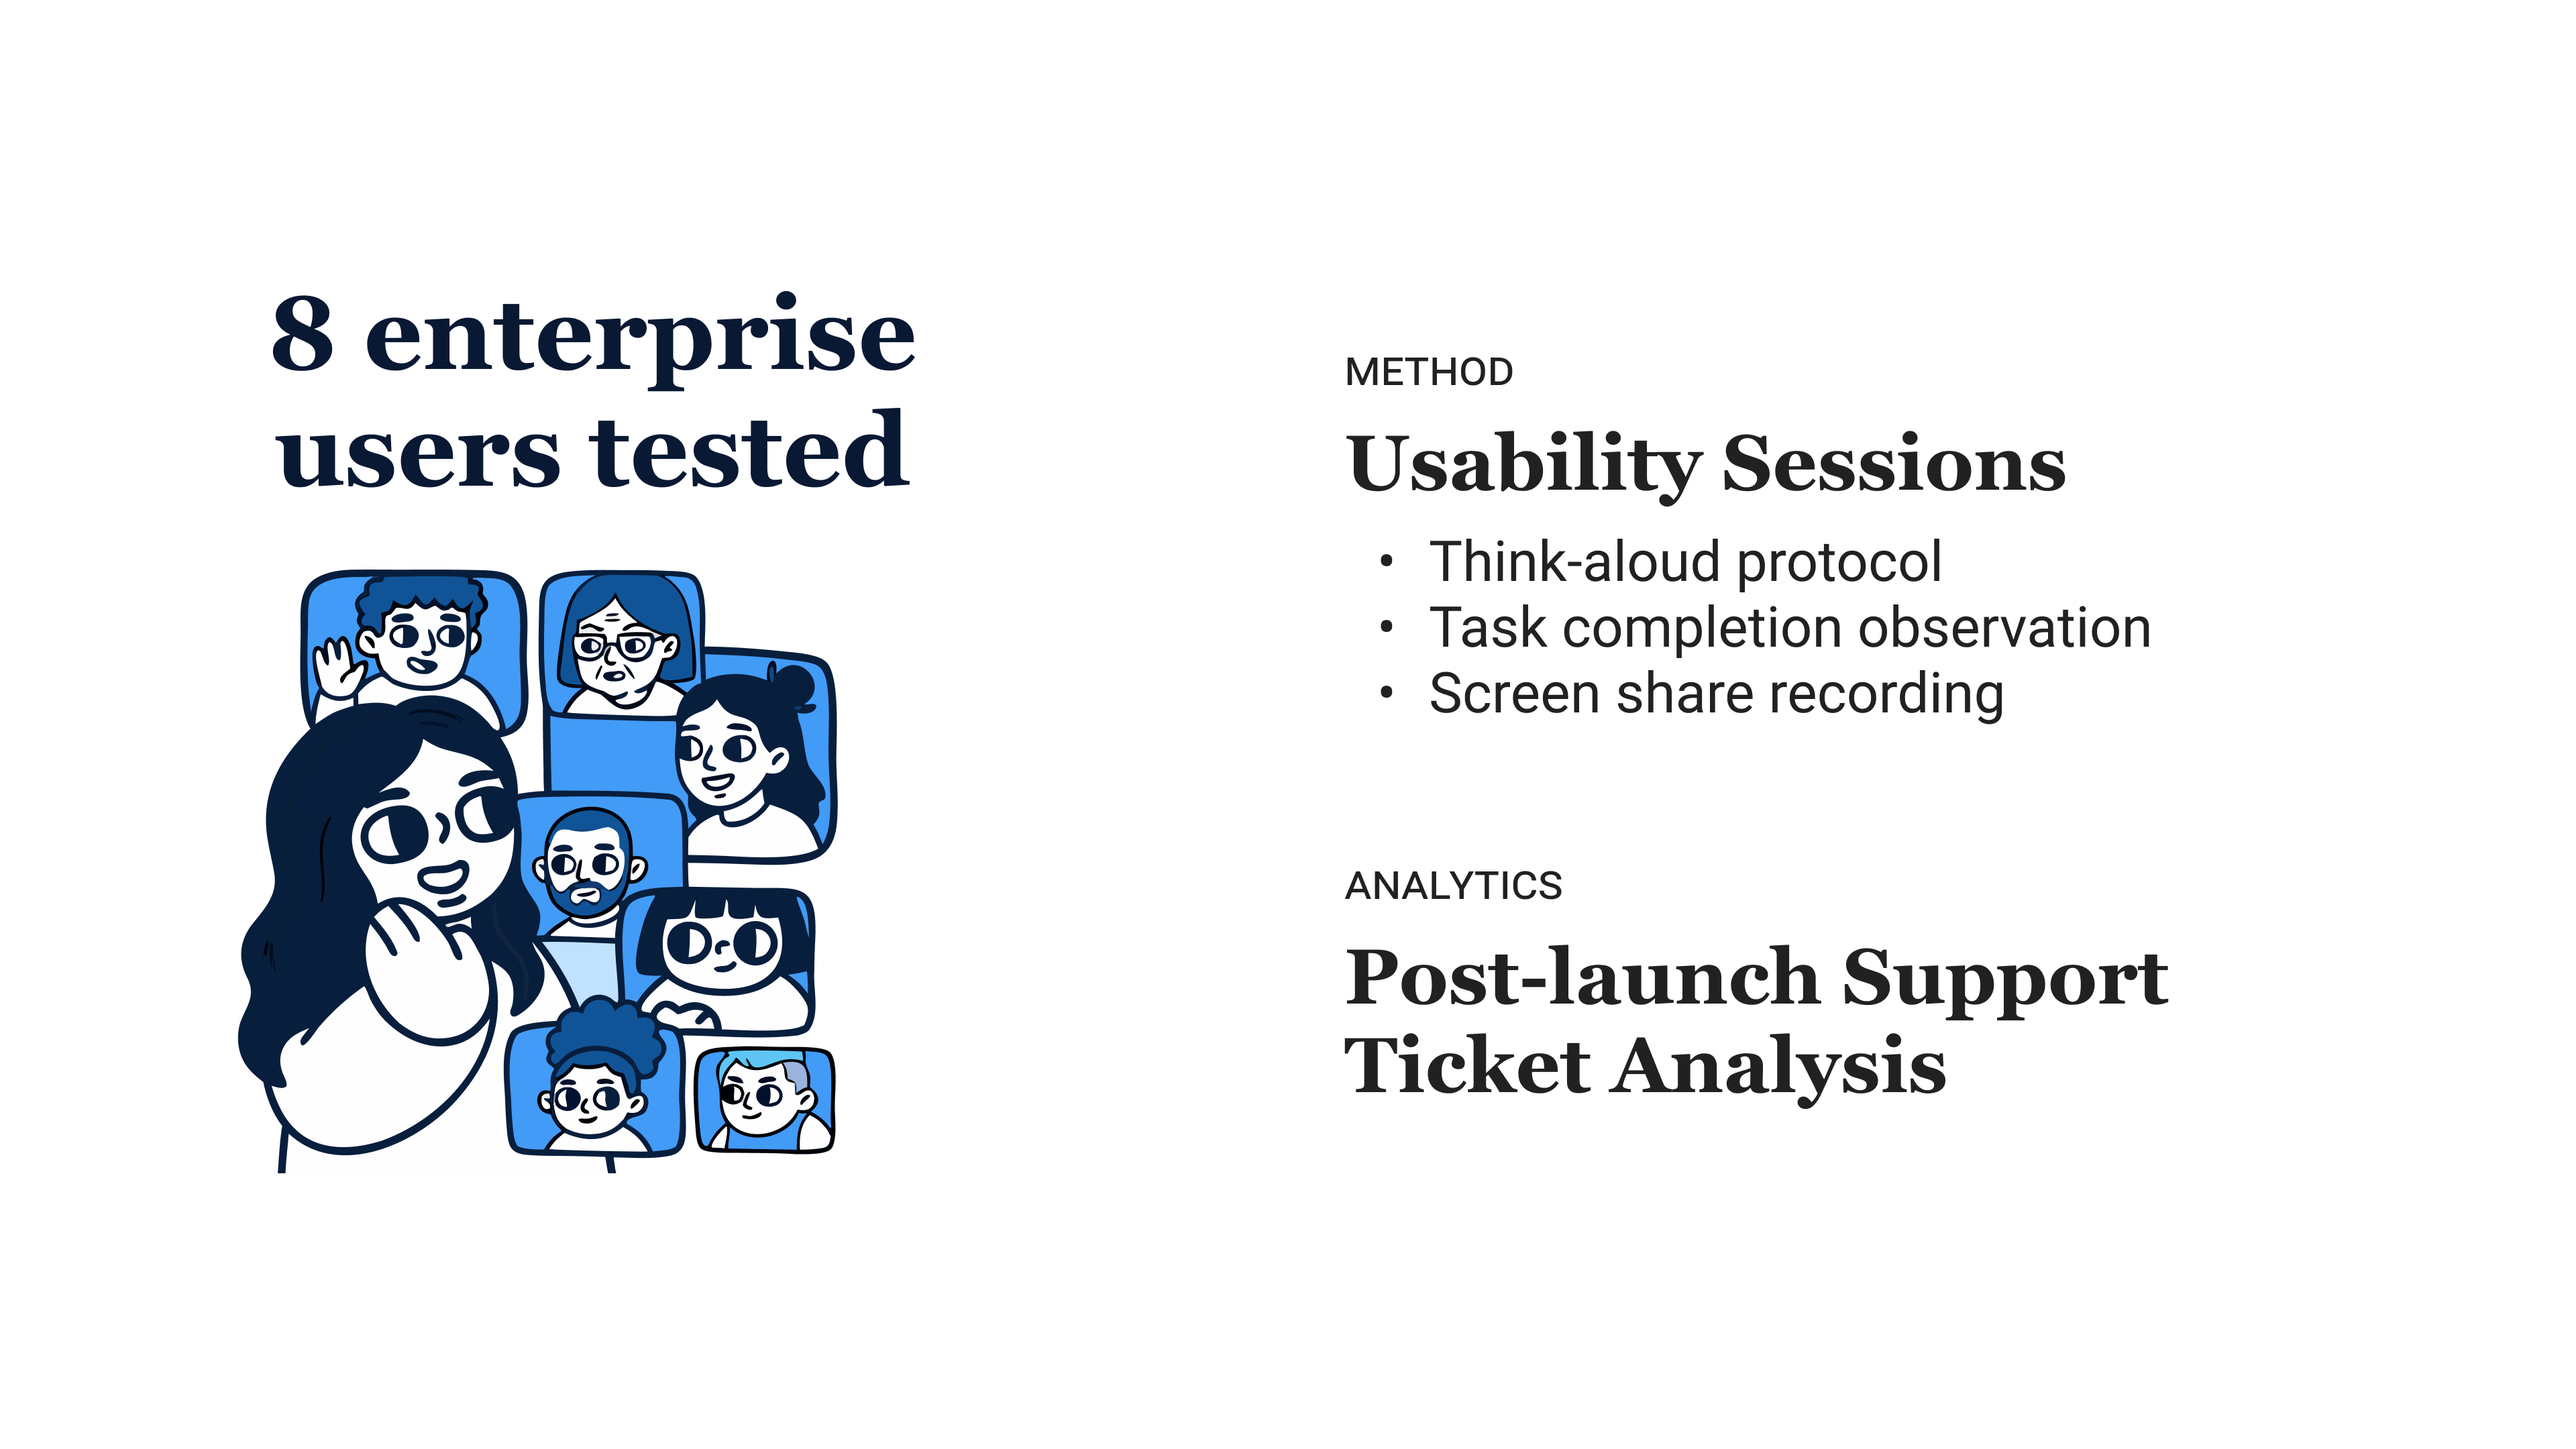
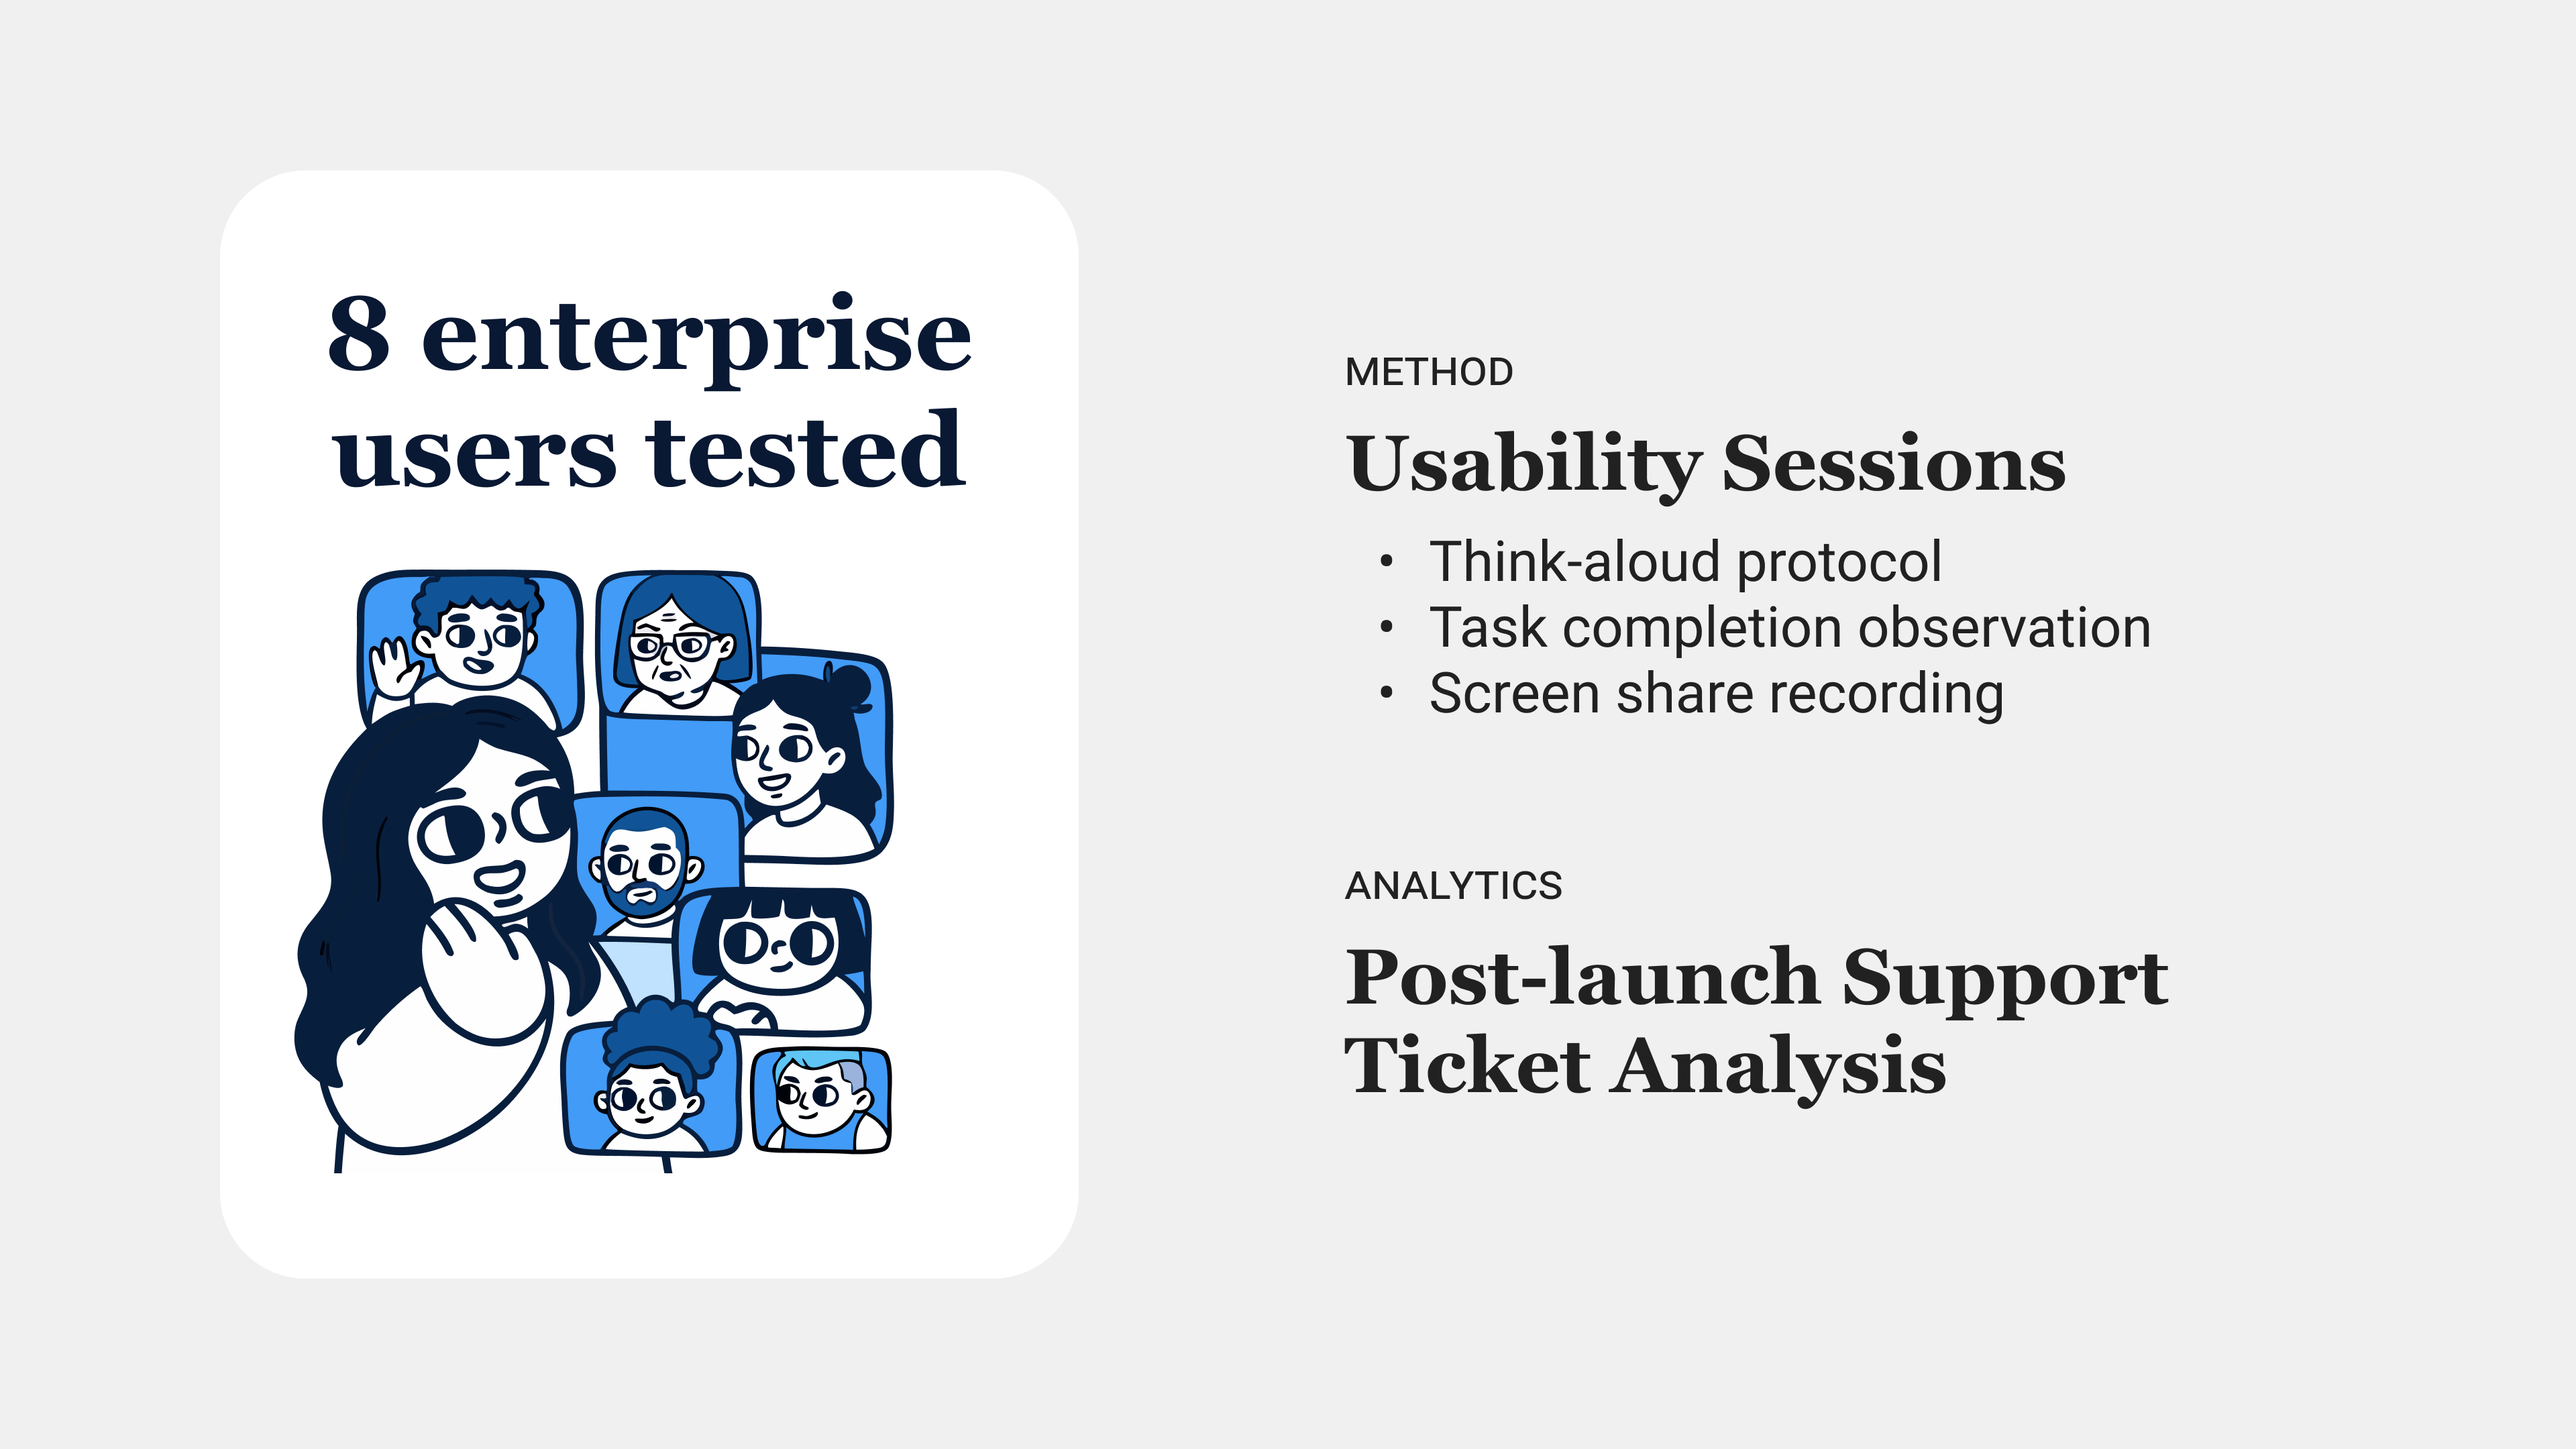
Update Validation Study visual, match stat card sizing to Fare Finder
Swap in the styled "8 enterprise users tested" v2 visual (rounded
card on grey bg). Stat images now use the same .ff-stat-card-image
sizing as Fare Finder's stat card (200px mobile, 60% tablet/desktop)
instead of stretching full grid width.

Changed region(s): [[0.0938, 0.3722, 0.375, 0.8065], [0.0938, 0.1861, 0.375, 0.3412]]

diff --git a/src/pages/work/ExpertAIPage.tsx b/src/pages/work/ExpertAIPage.tsx
@@ -316,8 +316,8 @@ export default function ExpertAIPage() {
           <div style={{ marginTop: 108 }}>
             <SubHeading>Results</SubHeading>
             <div className="grid grid-cols-1 lg:grid-cols-2 gap-4" style={{ marginTop: 24, marginBottom: 16 }}>
-              <img src={img('stat-task-time.png')} alt="30 seconds task time reduction" style={{ width: '100%', height: 'auto', display: 'block', borderRadius: 8 }} />
-              <img src={img('stat-support-tickets.png')} alt="42% fewer support tickets" style={{ width: '100%', height: 'auto', display: 'block', borderRadius: 8 }} />
+              <img src={img('stat-task-time.png')} alt="30 seconds task time reduction" className="ff-stat-card-image" style={{ width: 200, height: 'auto', display: 'block', borderRadius: 8, justifySelf: 'center', margin: '0 auto' }} />
+              <img src={img('stat-support-tickets.png')} alt="42% fewer support tickets" className="ff-stat-card-image" style={{ width: 200, height: 'auto', display: 'block', borderRadius: 8, justifySelf: 'center', margin: '0 auto' }} />
             </div>
             <BodyText>
               After the redesign shipped, task time dropped from 2 minutes to <strong style={{ color: 'var(--color-cs-heading)', fontWeight: 700 }}>30 seconds</strong>. Users could see their results while filtering and change states with a single click. Support tickets about filtering fell by <strong style={{ color: 'var(--color-cs-heading)', fontWeight: 700 }}>42%</strong>, confirming the core friction had been resolved.
